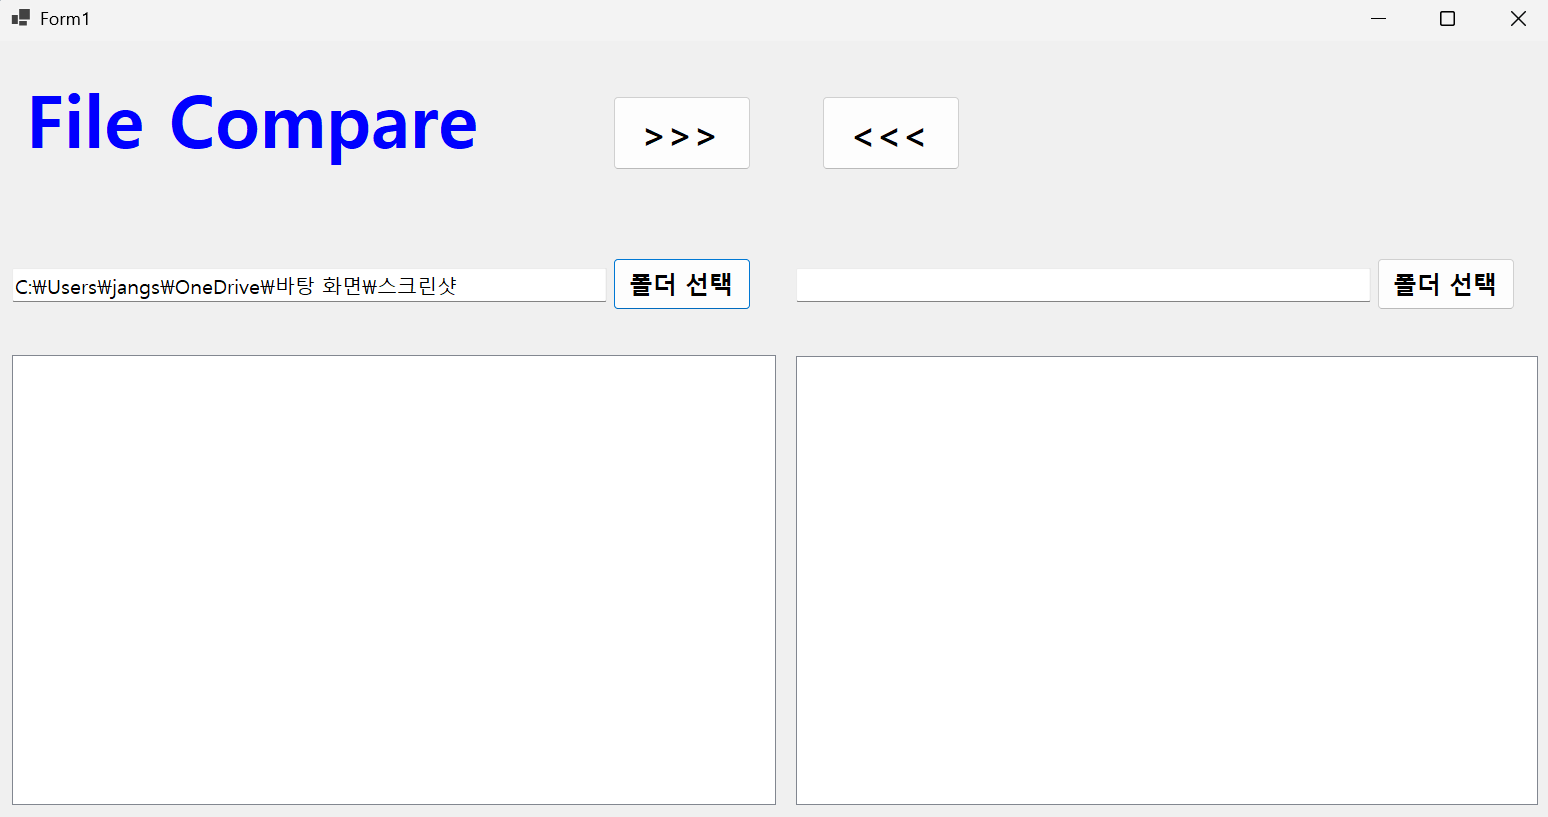
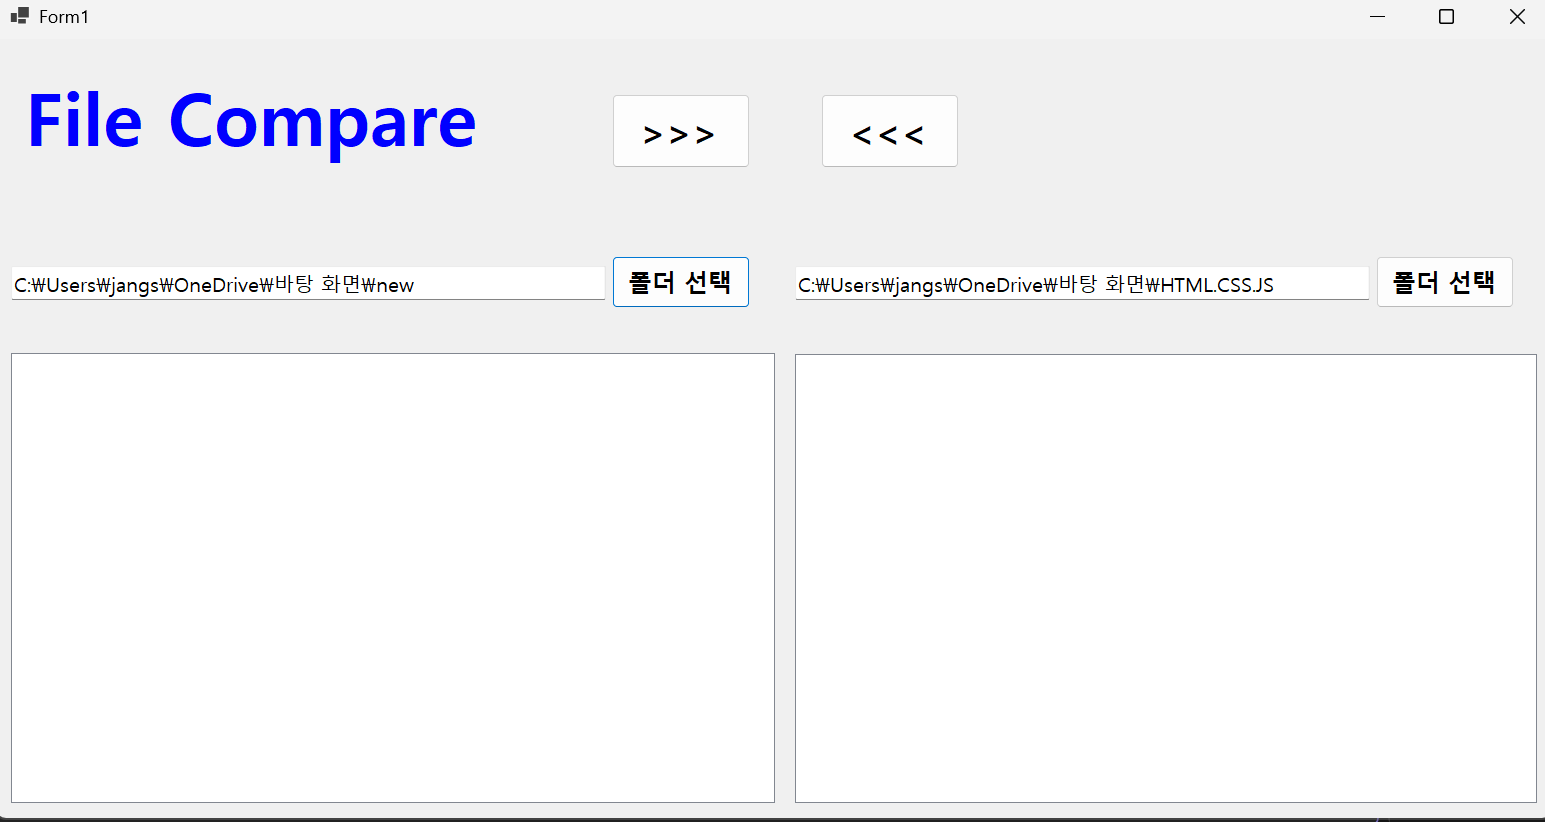
과제2 코딩과 테스트 완료 - 폴더 선택 기능과 파일 리스트 기능 구현 (+ 색상 구분 표시) - 양쪽 폴더의 파일 표시

diff --git a/Form1.cs b/Form1.cs
@@ -9,25 +9,80 @@ namespace FileCompare
 
         private void btnLeftDir_Click(object sender, EventArgs e)
         {
-            using (var dlg = new FolderBrowserDialog())
+            try
             {
-                dlg.Description = "폴더를 선택하세요.";
-                // 현재 텍스트박스에 있는 경로를 초기 선택 폴더로 설정
-                if (!string.IsNullOrWhiteSpace(txtLeftDir.Text) &&
-                    Directory.Exists(txtLeftDir.Text))
+                // [1] 실행하고 싶은 코드 (오류가 날 가능성이 있는 곳)
+                using (var dlg = new FolderBrowserDialog())
                 {
-                    dlg.SelectedPath = txtLeftDir.Text;
+                    dlg.Description = "폴더를 선택하세요.";
+                    // 현재 텍스트박스에 있는 경로를 초기 선택 폴더로 설정
+                    if (!string.IsNullOrWhiteSpace(txtLeftDir.Text) &&
+                        Directory.Exists(txtLeftDir.Text))
+                    {
+                        dlg.SelectedPath = txtLeftDir.Text;
+                    }
+                    if (dlg.ShowDialog() == DialogResult.OK)
+                    {
+                        txtLeftDir.Text = dlg.SelectedPath;
+                        PopulateListView(lvwLeftDir, dlg.SelectedPath);
+
+                        // 반대편이 이미 선택되어 있으면 동시에 갱신(색상 일관성 유지)
+                        if (!string.IsNullOrWhiteSpace(txtRightDir.Text) &&
+                            Directory.Exists(txtRightDir.Text))
+                        {
+                            PopulateListView(lvwrightDir, txtRightDir.Text);
+                        }
+                    }
                 }
-                if (dlg.ShowDialog() == DialogResult.OK)
-                {
-                    txtLeftDir.Text = dlg.SelectedPath;
-                }
+            }
+            catch (Exception ex)
+            {
+                // [2] 오류가 발생했을 때 실행되는 코드
+                Console.WriteLine("오류 발생: " + ex.Message);
+            }
+            finally
+            {
+                // [3] 오류와 상관없이 무조건 마지막에 실행되는 코드(생략 가능)
             }
         }
 
         private void btnRightDir_Click(object sender, EventArgs e)
         {
+            try
+            {
+                // [1] 실행하고 싶은 코드 (오류가 날 가능성이 있는 곳)
+                using (var dlg = new FolderBrowserDialog())
+                {
+                    dlg.Description = "폴더를 선택하세요.";
+                    // 현재 텍스트박스에 있는 경로를 초기 선택 폴더로 설정
+                    if (!string.IsNullOrWhiteSpace(txtRightDir.Text) &&
+                        Directory.Exists(txtRightDir.Text))
+                    {
+                        dlg.SelectedPath = txtRightDir.Text;
+                    }
+                    if (dlg.ShowDialog() == DialogResult.OK)
+                    {
+                        txtRightDir.Text = dlg.SelectedPath;
+                        PopulateListView(lvwrightDir, dlg.SelectedPath);
 
+                        // 반대편이 이미 선택되어 있으면 동시에 갱신(색상 일관성 유지)
+                        if (!string.IsNullOrWhiteSpace(txtLeftDir.Text) &&
+                            Directory.Exists(txtLeftDir.Text))
+                        {
+                            PopulateListView(lvwLeftDir, txtLeftDir.Text);
+                        }
+                    }
+                }
+            }
+            catch (Exception ex)
+            {
+                // [2] 오류가 발생했을 때 실행되는 코드
+                Console.WriteLine("오류 발생: " + ex.Message);
+            }
+            finally
+            {
+                // [3] 오류와 상관없이 무조건 마지막에 실행되는 코드(생략 가능)
+            }
         }
 
         private void btnCopyFromLeft_Click(object sender, EventArgs e)
@@ -39,5 +94,119 @@ namespace FileCompare
         {
 
         }
+
+        private void PopulateListView(ListView lv, string folderPath)
+        {
+            lv.BeginUpdate();
+            lv.Items.Clear();
+            try
+            { // 폴더(디렉터리) 먼저 추가
+                var dirs = Directory.EnumerateDirectories(folderPath)
+                .Select(p => new DirectoryInfo(p)).OrderBy(d => d.Name);
+                foreach (var d in dirs)
+                {
+                    var item = new ListViewItem(d.Name);
+                    item.SubItems.Add("<DIR>");
+                    item.SubItems.Add(d.LastWriteTime.ToString("g"));
+                    lv.Items.Add(item);
+                }
+                // 파일 추가
+                var files = Directory.EnumerateFiles(folderPath)
+                .Select(p => new FileInfo(p))
+                .OrderBy(f => f.Name);
+
+                // 비교 대상 폴더 결정 (반대편)
+                string otherFolder = null;
+                if (lv == lvwLeftDir)
+                {
+                    otherFolder = txtRightDir.Text;
+                }
+                else if (lv == lvwrightDir)
+                {
+                    otherFolder = txtLeftDir.Text;
+                }
+
+                foreach (var f in files)
+                {
+                    var item = new ListViewItem(f.Name);
+                    item.SubItems.Add(f.Length.ToString("N0") + " 바이트");
+                    item.SubItems.Add(f.LastWriteTime.ToString("g"));
+
+                    // 상태 결정 및 색상 적용
+                    FileInfo rf = null;
+                    if (!string.IsNullOrWhiteSpace(otherFolder) && Directory.Exists(otherFolder))
+                    {
+                        var otherPath = Path.Combine(otherFolder, f.Name);
+                        if (File.Exists(otherPath))
+                        {
+                            rf = new FileInfo(otherPath);
+                        }
+                    }
+
+                    if (rf != null)
+                    {
+                        // 파일이름이 같고 크기가 같으며 수정시간도 같으면 동일 파일 -> 검은색
+                        if (f.Length == rf.Length && f.LastWriteTime == rf.LastWriteTime)
+                        {
+                            item.ForeColor = Color.Black; // 동일
+                        }
+                        else if (f.Length == rf.Length) // 같은 파일(크기 같음)인데 시간 차이
+                        {
+                            if (f.LastWriteTime > rf.LastWriteTime)
+                            {
+                                item.ForeColor = Color.Red; // 이쪽이 더 최신
+                            }
+                            else
+                            {
+                                item.ForeColor = Color.Gray; // 이쪽이 더 오래됨
+                            }
+                        }
+                        else
+                        {
+                            // 파일 이름은 같지만 크기가 다르면 시간/내용이 다른 것으로 간주
+                            // 시간 기준으로 더 최신/오래된 색상을 적용하거나 회색으로 표시할 수 있음.
+                            if (f.LastWriteTime > rf.LastWriteTime)
+                            {
+                                item.ForeColor = Color.Red;
+                            }
+                            else
+                            {
+                                item.ForeColor = Color.Gray;
+                            }
+                        }
+                    }
+                    else
+                    {
+                        // 반대편에 없는 단독 파일 -> 보라색
+                        item.ForeColor = Color.Purple;
+                    }
+
+                    lv.Items.Add(item);
+                }
+
+                // 컬럼 너비 자동 조정 (컨텐츠 기준)
+                for (int i = 0; i < lv.Columns.Count; i++)
+                {
+                    lv.AutoResizeColumn(i,
+                    ColumnHeaderAutoResizeStyle.ColumnContent);
+                }
+
+            }
+            catch (DirectoryNotFoundException)
+            {
+                MessageBox.Show(this, "폴더를 찾을 수 없습니다.", "오류", MessageBoxButtons.OK, MessageBoxIcon.Error);
+            }
+            catch (IOException ex)
+            {
+                MessageBox.Show(this, "입출력 오류: " + ex.Message, "오류", MessageBoxButtons.OK, MessageBoxIcon.Error);
+            }
+            finally
+            {
+                // BeginUpdate()로 잠근 상태를 반드시 해제
+                lv.EndUpdate();
+            }
+        }
+
+        
     }
 }

diff --git a/Form1.Designer.cs b/Form1.Designer.cs
@@ -31,6 +31,9 @@
             splitContainer1 = new SplitContainer();
             panel3 = new Panel();
             lvwLeftDir = new ListView();
+            columnHeader1 = new ColumnHeader();
+            columnHeader2 = new ColumnHeader();
+            columnHeader3 = new ColumnHeader();
             panel2 = new Panel();
             txtLeftDir = new TextBox();
             btnLeftDir = new Button();
@@ -39,6 +42,9 @@
             lblAppName = new Label();
             panel6 = new Panel();
             lvwrightDir = new ListView();
+            columnHeader4 = new ColumnHeader();
+            columnHeader5 = new ColumnHeader();
+            columnHeader6 = new ColumnHeader();
             panel5 = new Panel();
             txtRightDir = new TextBox();
             btnRightDir = new Button();
@@ -90,12 +96,33 @@
             // 
             // lvwLeftDir
             // 
+            lvwLeftDir.BackColor = Color.White;
+            lvwLeftDir.Columns.AddRange(new ColumnHeader[] { columnHeader1, columnHeader2, columnHeader3 });
             lvwLeftDir.Dock = DockStyle.Fill;
+            lvwLeftDir.FullRowSelect = true;
+            lvwLeftDir.GridLines = true;
             lvwLeftDir.Location = new Point(5, 5);
             lvwLeftDir.Name = "lvwLeftDir";
             lvwLeftDir.Size = new Size(764, 450);
             lvwLeftDir.TabIndex = 0;
             lvwLeftDir.UseCompatibleStateImageBehavior = false;
+            lvwLeftDir.View = View.Details;
+            
+            // 
+            // columnHeader1
+            // 
+            columnHeader1.Text = "이름";
+            columnHeader1.Width = 530;
+            // 
+            // columnHeader2
+            // 
+            columnHeader2.Text = "크기";
+            columnHeader2.Width = 100;
+            // 
+            // columnHeader3
+            // 
+            columnHeader3.Text = "수정일";
+            columnHeader3.Width = 160;
             // 
             // panel2
             // 
@@ -173,12 +200,31 @@
             // 
             // lvwrightDir
             // 
+            lvwrightDir.Columns.AddRange(new ColumnHeader[] { columnHeader4, columnHeader5, columnHeader6 });
             lvwrightDir.Dock = DockStyle.Fill;
+            lvwrightDir.FullRowSelect = true;
+            lvwrightDir.GridLines = true;
             lvwrightDir.Location = new Point(5, 5);
             lvwrightDir.Name = "lvwrightDir";
             lvwrightDir.Size = new Size(742, 449);
             lvwrightDir.TabIndex = 0;
             lvwrightDir.UseCompatibleStateImageBehavior = false;
+            lvwrightDir.View = View.Details;
+            // 
+            // columnHeader4
+            // 
+            columnHeader4.Text = "이름";
+            columnHeader4.Width = 530;
+            // 
+            // columnHeader5
+            // 
+            columnHeader5.Text = "크기";
+            columnHeader5.Width = 100;
+            // 
+            // columnHeader6
+            // 
+            columnHeader6.Text = "수정일";
+            columnHeader6.Width = 160;
             // 
             // panel5
             // 
@@ -274,5 +320,11 @@
         private TextBox txtRightDir;
         private Button btnRightDir;
         private Button btnCopyFromRight;
+        private ColumnHeader columnHeader1;
+        private ColumnHeader columnHeader2;
+        private ColumnHeader columnHeader3;
+        private ColumnHeader columnHeader4;
+        private ColumnHeader columnHeader5;
+        private ColumnHeader columnHeader6;
     }
 }

diff --git a/README.md b/README.md
@@ -11,13 +11,23 @@
 	- Visual Studio를 이용하여 UI 디자인
 	- 컨트롤 배치와 기본적인 속성 설정
 	- 컨트롤 이름 정하기
+	- 폴더 선택 기능과 파일 리스트 기능 구현 (색상 구분 표시)
 
 ## 실행 화면 (과제1)
 - 코드의 실행 스크린샷과 구현 내용 설명
 
-![실행화면](img/screenshot-1.png)
 ![실행화면](img/screenshot-2.png)
+![실행화면](img/screenshot-1.png)
 
 - 구현한 내용 (위 그림 참조)
-	-  UI 구성: GUI 설계 및 컨트롤 배치
+	- UI 구성: GUI 설계 및 컨트롤 배치
 	- 컨트롤의 기본 기능 확인과 구현: 컨트롤에서 기본적으로 제공하는 기능 구동 확인, 다시 주문할 수 있도록 초기화
+
+## 실행 화면 (과제2)
+- 코드의 실행 스크린샷과 구현 내용 설명
+
+![실행화면](img/screenshot-3.png)
+
+- 구현한 내용 (위 그림 참조)
+	- 폴더 선택 기능과 파일 리스트 기능 구현 (+ 색상 구분 표시)
+	- 양쪽 폴더의 파일 표시
